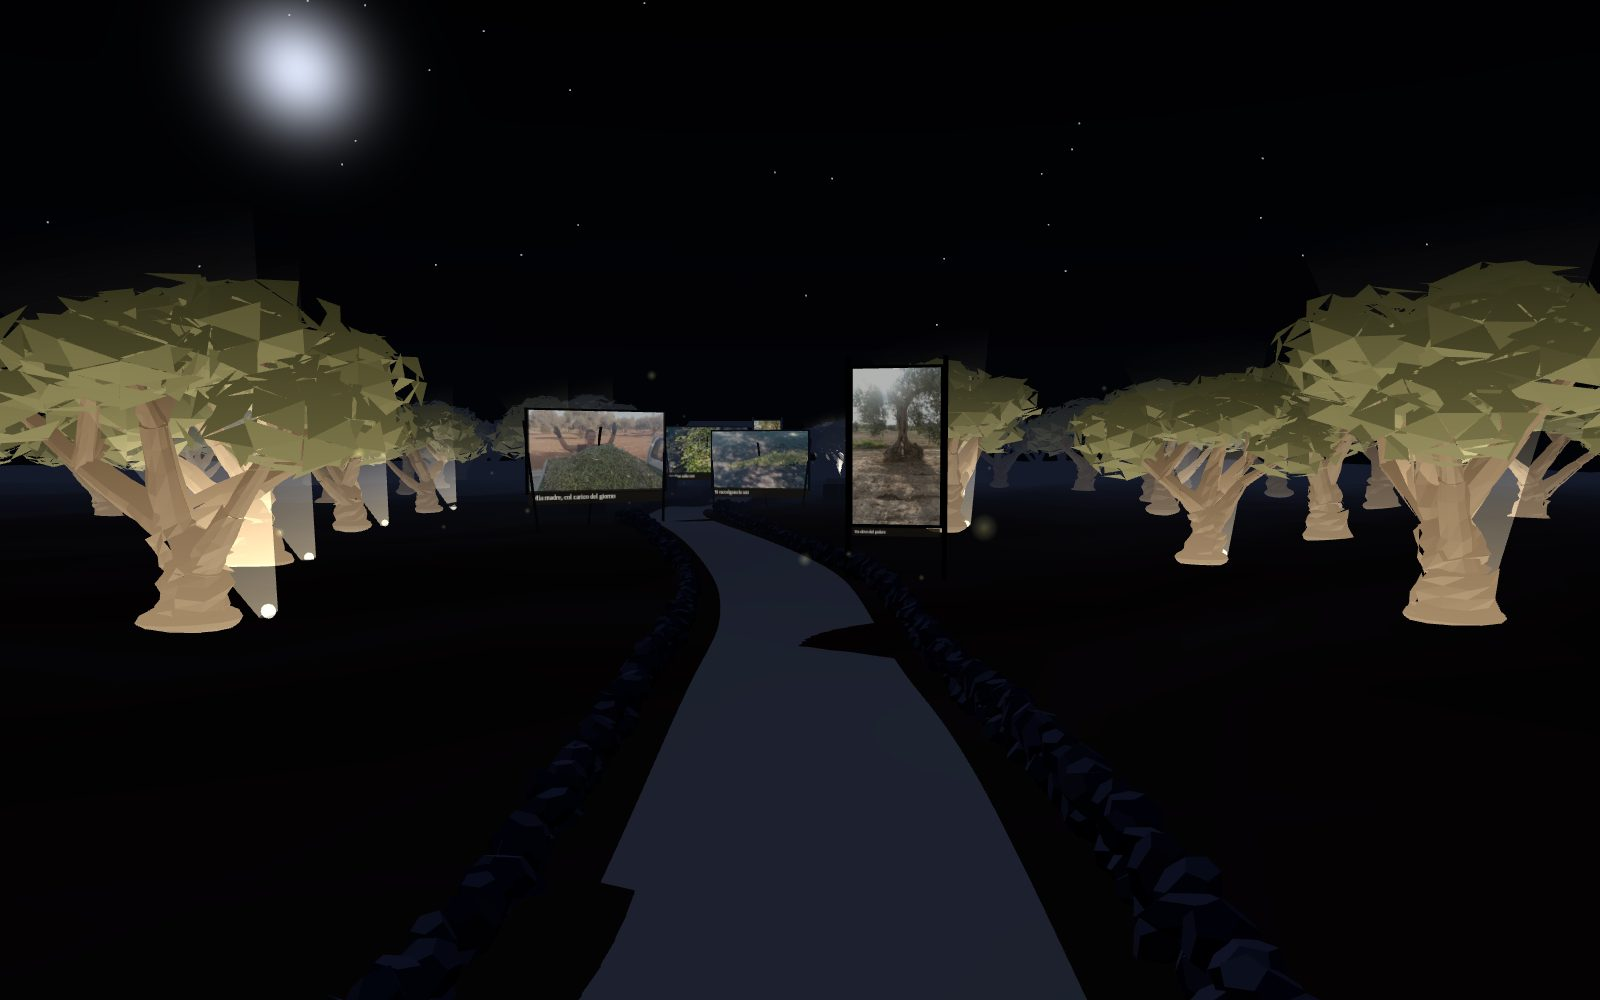
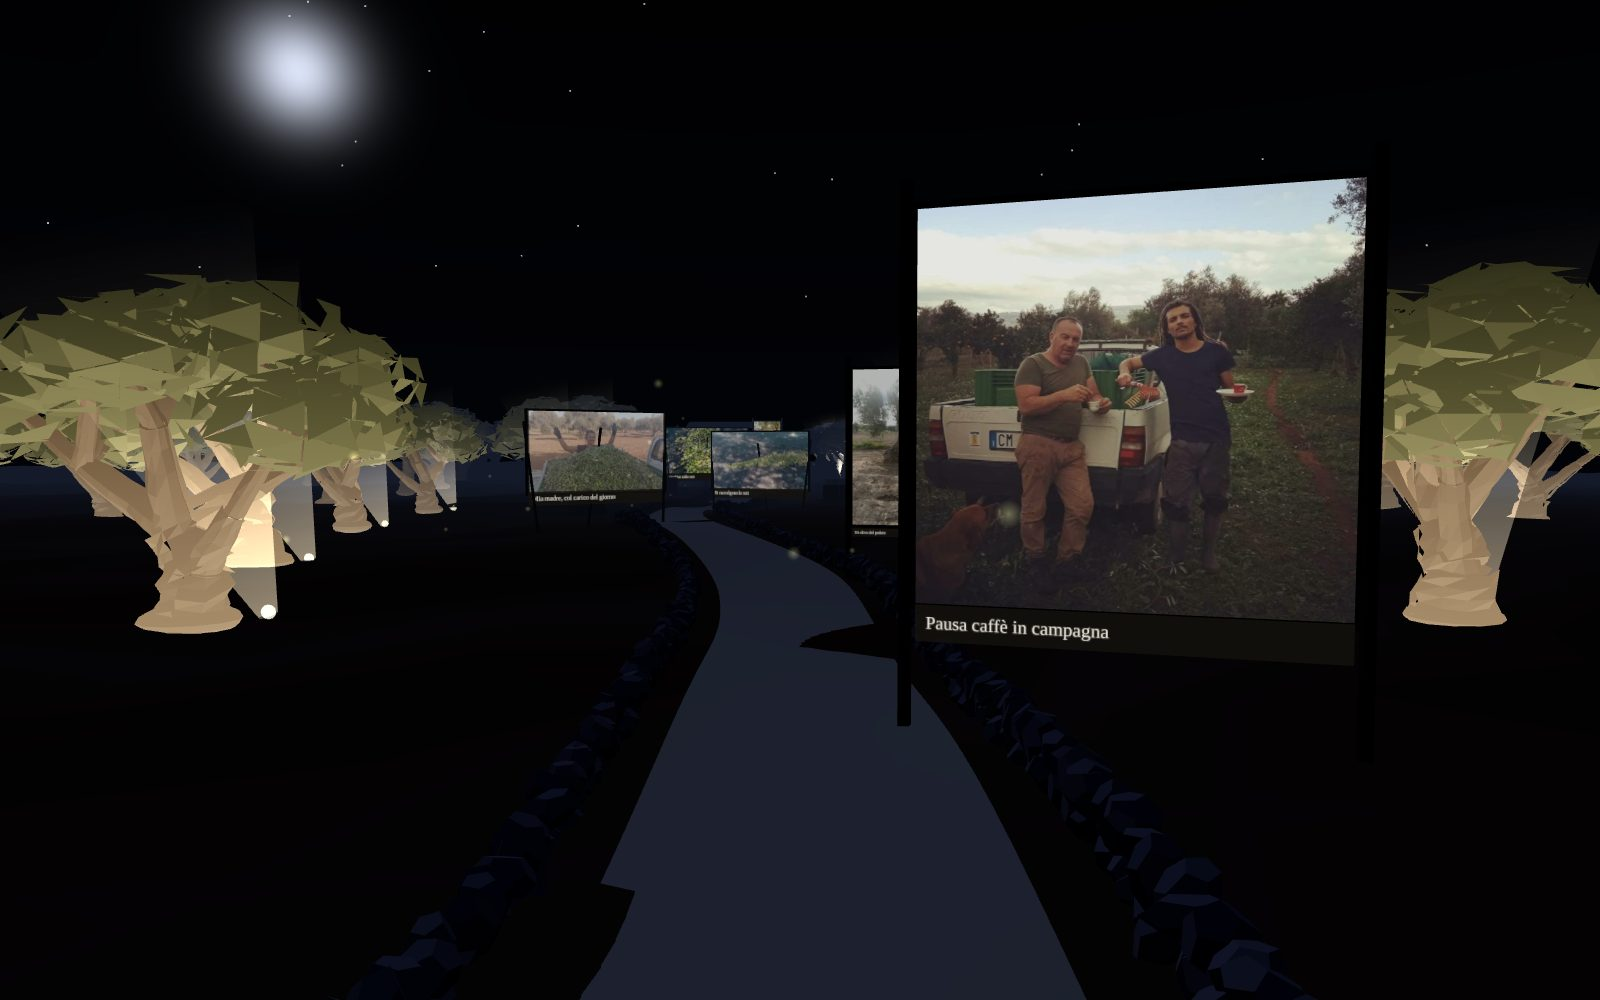
Il podere a destra del cancello; la foto della pausa caffè all'ingresso dell'uliveto
Il podere si sposta a destra dell'ingresso: l'ulivo nel varco fra il cancello e la prima carta, la fila,
la casetta e le persone sotto il bordo di quella carta (il gruppo è specchiato). Gli ulivi del cancello
stanno più indietro per non coprirlo. Nell'uliveto la foto di Livio in campagna apre il cammino.

Claude-Session: https://claude.ai/code/session_01A9JQzMorsUGx96Wd9k9sii

diff --git a/components/ospiti/ulivo.ts b/components/ospiti/ulivo.ts
@@ -1,12 +1,12 @@
 import * as THREE from "three";
 import { mergeGeometries } from "three/examples/jsm/utils/BufferGeometryUtils.js";
-import { ANGOLO_ULIVETO } from "../zona";
+import { ANGOLO_ULIVETO, PASSO } from "../zona";
 import { PELO_ACQUA } from "../condivisi";
 import { alone, fra, generatore, liberaTutto, tela } from "./comuni";
 
 /*
- * Il podere dell'ulivo, sullo sfondo dell'ingresso dell'uliveto: oltre il cancello, verso la zona dello sviluppatore,
- * dove non ci sono carte a coprirlo. Tutto piccolo: una persona è alta circa trenta centimetri.
+ * Il podere dell'ulivo, a destra dell'ingresso dell'uliveto: l'albero nel varco fra il cancello e la prima carta,
+ * il resto sotto il bordo di quella carta. Tutto piccolo: una persona è alta circa trenta centimetri.
  * In due minuti la storia di un podere. L'ulivo nasce legato al suo palo e cresce; gli passano accanto
  * un bambino in triciclo e un carro coi buoi. Prima raccolta. Poi un contadino pianta una fila di ulivi
  * lungo la trazzera, altri crescono sullo sfondo, si tira su una casetta; il bambino ripassa ragazzo, in bici.
@@ -14,13 +14,15 @@ import { alone, fra, generatore, liberaTutto, tela } from "./comuni";
  * si allarga ancora. Terza raccolta: le cassette le porta via un'Ape. Poi tutto si dissolve e ricomincia.
  * Di notte niente persone: il podere cresciuto, gli ulivi accesi da faretti a terra, la finestra della casetta.
  * Davanti, sull'anello delle carte, c'è il cancello d'ingresso (ingresso.ts): il podere si vede oltre.
- * In queste coordinate +x è a sinistra per chi guarda, −z verso chi guarda.
+ * In queste coordinate, col gruppo specchiato, +x è a destra per chi guarda, −z verso chi guarda.
  */
 
-/** Dietro l'ingresso dell'uliveto, oltre il cancello. */
-// appena verso la zona: l'albero resta nel varco del cancello, il podere si allarga dove non ci sono carte
-const ANGOLO = ANGOLO_ULIVETO - 0.05;
-const DISTANZA = 9.9;
+/**
+ * A destra del cancello: l'ulivo nel varco fra il cancello e la prima carta; il podere si allarga verso destra,
+ * sotto il bordo di quella carta, che è alta. Il gruppo è specchiato: +x locale va a destra per chi guarda.
+ */
+const ANGOLO = ANGOLO_ULIVETO + PASSO * 0.5;
+const DISTANZA = 8.6;
 /** Una persona è alta circa un'unità: nel mondo trenta centimetri, quanto basta per stare sotto la carta. */
 const SCALA = 0.3;
 const CICLO = 120;
@@ -194,7 +196,8 @@ export class Ulivo {
     const caso = generatore(4242);
     this.gruppo.position.set(Math.sin(ANGOLO) * DISTANZA, PELO_ACQUA, -Math.cos(ANGOLO) * DISTANZA);
     this.gruppo.rotation.y = Math.PI - ANGOLO;
-    this.gruppo.scale.setScalar(SCALA);
+    // specchiato sull'asse x: il podere cresce verso destra (three.js gira da sé le facce)
+    this.gruppo.scale.set(-SCALA, SCALA, SCALA);
 
     // la terra rossa del podere, la trazzera chiara, il muretto a secco davanti
     const terra = new THREE.Mesh(new THREE.CircleGeometry(1, 48).rotateX(-Math.PI / 2).scale(6.2, 1, 3.4).translate(3.6, 0.012, 1.4), stoffa("#8E5638", { roughness: 1 }));

diff --git a/content/olio.ts b/content/olio.ts
@@ -6,12 +6,12 @@
  * Nello stesso luogo i quadri si distribuiscono da soli, alternando i lati. src è il percorso del file servito
  * (in public/ o da un servizio esterno); poster l'immagine che si vede prima che il video parta.
  * Finché un posto è vuoto (media null) si vede la cornice con "Video in arrivo".
- * I file stanno in public/olio/video/: mp4 compressi per il web e un fotogramma jpg per ciascuno.
+ * I file stanno in public/olio/video/ (mp4 compressi per il web e un fotogramma jpg per ciascuno) e public/olio/foto/.
  */
 export type Luogo = "alberi" | "raccolta" | "frantoio";
 export type Media = { tipo: "video" | "foto"; src: string; poster?: string } | null;
 /**
- * tappa: il testo a cui il video è legato (id della tappa: storia-0…2, metodo-0…3, frantoio).
+ * tappa: il testo a cui il video è legato (id della tappa: apertura, storia-0…2, metodo-0…3, frantoio).
  * Il quadro sta qualche metro più avanti di dove ci si ferma per leggere, dalla parte libera dal testo;
  * quelli della tappa "frantoio" stanno in arco dietro la macina. luogo serve senza la scena 3D,
  * per raggruppare i video sotto il testo.
@@ -21,6 +21,7 @@ export type VoceMedia = { luogo: Luogo; tappa: string; media: Media; didascalia?
 const v = (nome: string): Media => ({ tipo: "video", src: `/olio/video/${nome}.mp4`, poster: `/olio/video/${nome}.jpg` });
 
 export const mediaOlio: VoceMedia[] = [
+  { luogo: "alberi", tappa: "apertura", media: { tipo: "foto", src: "/olio/foto/caffe.jpg" }, didascalia: { it: "Pausa caffè in campagna", en: "Coffee break in the grove", es: "Pausa para el café en el campo" } },
   { luogo: "alberi", tappa: "storia-0", media: v("ulivo"), didascalia: { it: "Un ulivo del podere", en: "One of the olive trees", es: "Uno de los olivos" } },
   { luogo: "raccolta", tappa: "storia-1", media: v("carico"), didascalia: { it: "Mia madre, col carico del giorno", en: "My mother, with the day's load", es: "Mi madre, con la carga del día" } },
   { luogo: "raccolta", tappa: "storia-2", media: v("raccolta-reti"), didascalia: { it: "Si raccolgono le reti", en: "Gathering the nets", es: "Recogiendo las redes" } },

diff --git a/components/ospiti/ingresso.ts b/components/ospiti/ingresso.ts
@@ -150,10 +150,10 @@ export class Ingresso {
     [-1, 1].forEach((s, i) => {
       const f = forma[i];
       const g = new THREE.Group();
-      // quello dalla parte della zona sta più indietro e più basso: non deve coprire il podere
-      g.position.set(s * (s < 0 ? 1.55 : 1.45), 0, s < 0 ? 2.3 : 1.2);
+      // tutti e due dentro e indietro: a destra c'è il podere, nel varco, che non va coperto
+      g.position.set(s * (s < 0 ? 1.55 : 0.85), 0, s < 0 ? 2.3 : 2.7);
       g.rotation.y = caso() * Math.PI * 2;
-      g.scale.setScalar(s < 0 ? 0.6 : 0.78);
+      g.scale.setScalar(0.6);
       const giorno = new THREE.Group();
       giorno.add(
         new THREE.Mesh(f.legnoGeo, new THREE.MeshStandardMaterial({ color: "#6A5E50", roughness: 1, flatShading: true })),
